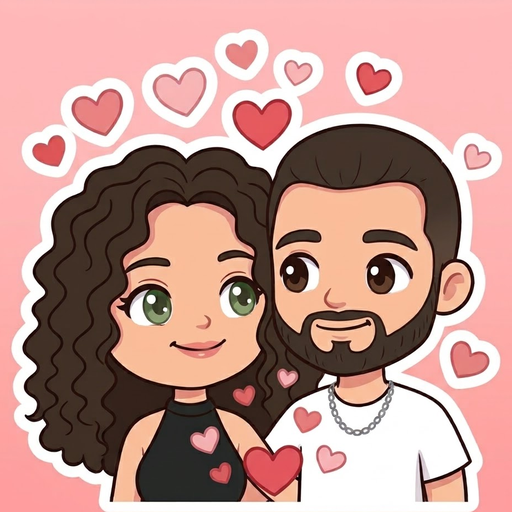
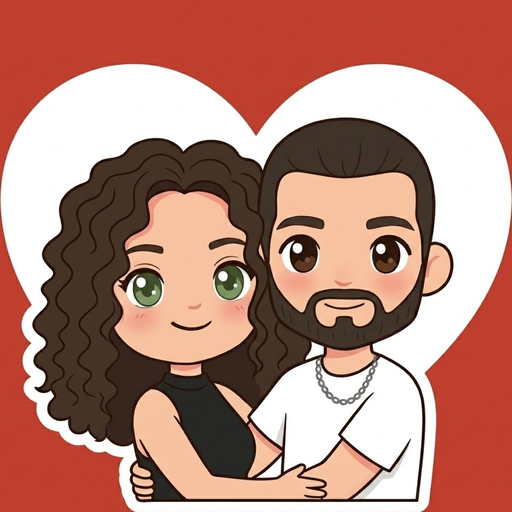
Ícono nuevo: corazón con fondo rojo, borde de abajo pegado al borde del ícono
Claude-Session: https://claude.ai/code/session_01LMZK85bQ5JCHh7utCTGme3

diff --git a/gastos.html b/gastos.html
@@ -5,8 +5,8 @@
 <meta name="viewport" content="width=device-width, initial-scale=1.0, viewport-fit=cover">
 <meta name="apple-mobile-web-app-capable" content="yes">
 <meta name="apple-mobile-web-app-title" content="Gastos">
-<link rel="apple-touch-icon" href="img/apple-touch.png?v=4">
-<link rel="icon" type="image/png" href="img/icono.png?v=4">
+<link rel="apple-touch-icon" href="img/apple-touch.png?v=5">
+<link rel="icon" type="image/png" href="img/icono.png?v=5">
 <title>Gastos personales</title>
 <script src="tema.js"></script>
 <link rel="stylesheet" href="https://cdn.jsdelivr.net/npm/@tabler/icons-webfont@3.19.0/dist/tabler-icons.min.css">

diff --git a/inventario.html b/inventario.html
@@ -6,8 +6,8 @@
 <meta name="apple-mobile-web-app-capable" content="yes">
 <meta name="apple-mobile-web-app-status-bar-style" content="default">
 <meta name="apple-mobile-web-app-title" content="Inventario">
-<link rel="apple-touch-icon" href="img/apple-touch.png?v=4">
-<link rel="icon" type="image/png" href="img/icono.png?v=4">
+<link rel="apple-touch-icon" href="img/apple-touch.png?v=5">
+<link rel="icon" type="image/png" href="img/icono.png?v=5">
 <title>Inventario - Escáner Automático</title>
 <script src="tema.js"></script>
 <script src="firebase-config.js"></script>

diff --git a/vacaciones.html b/vacaciones.html
@@ -5,8 +5,8 @@
 <meta name="viewport" content="width=device-width, initial-scale=1.0, viewport-fit=cover">
 <meta name="apple-mobile-web-app-capable" content="yes">
 <meta name="apple-mobile-web-app-title" content="Vacaciones">
-<link rel="apple-touch-icon" href="img/apple-touch.png?v=4">
-<link rel="icon" type="image/png" href="img/icono.png?v=4">
+<link rel="apple-touch-icon" href="img/apple-touch.png?v=5">
+<link rel="icon" type="image/png" href="img/icono.png?v=5">
 <title>Vacaciones</title>
 <script src="tema.js"></script>
 <script src="firebase-config.js"></script>

diff --git a/index.html b/index.html
@@ -7,9 +7,9 @@
 <meta name="mobile-web-app-capable" content="yes">
 <meta name="apple-mobile-web-app-title" content="Nuestras apps">
 <meta name="theme-color" content="#1D9E75">
-<link rel="apple-touch-icon" href="img/apple-touch.png?v=4">
+<link rel="apple-touch-icon" href="img/apple-touch.png?v=5">
 <link rel="manifest" href="manifest.json">
-<link rel="icon" type="image/png" href="img/icono.png?v=4">
+<link rel="icon" type="image/png" href="img/icono.png?v=5">
 <title>Nuestras apps</title>
 <script src="tema.js"></script>
 <script src="firebase-config.js"></script>

diff --git a/ahorros.html b/ahorros.html
@@ -5,8 +5,8 @@
 <meta name="viewport" content="width=device-width, initial-scale=1.0, viewport-fit=cover">
 <meta name="apple-mobile-web-app-capable" content="yes">
 <meta name="apple-mobile-web-app-title" content="Ahorros">
-<link rel="apple-touch-icon" href="img/apple-touch.png?v=4">
-<link rel="icon" type="image/png" href="img/icono.png?v=4">
+<link rel="apple-touch-icon" href="img/apple-touch.png?v=5">
+<link rel="icon" type="image/png" href="img/icono.png?v=5">
 <title>Ahorros</title>
 <script src="tema.js"></script>
 <script src="firebase-config.js"></script>
